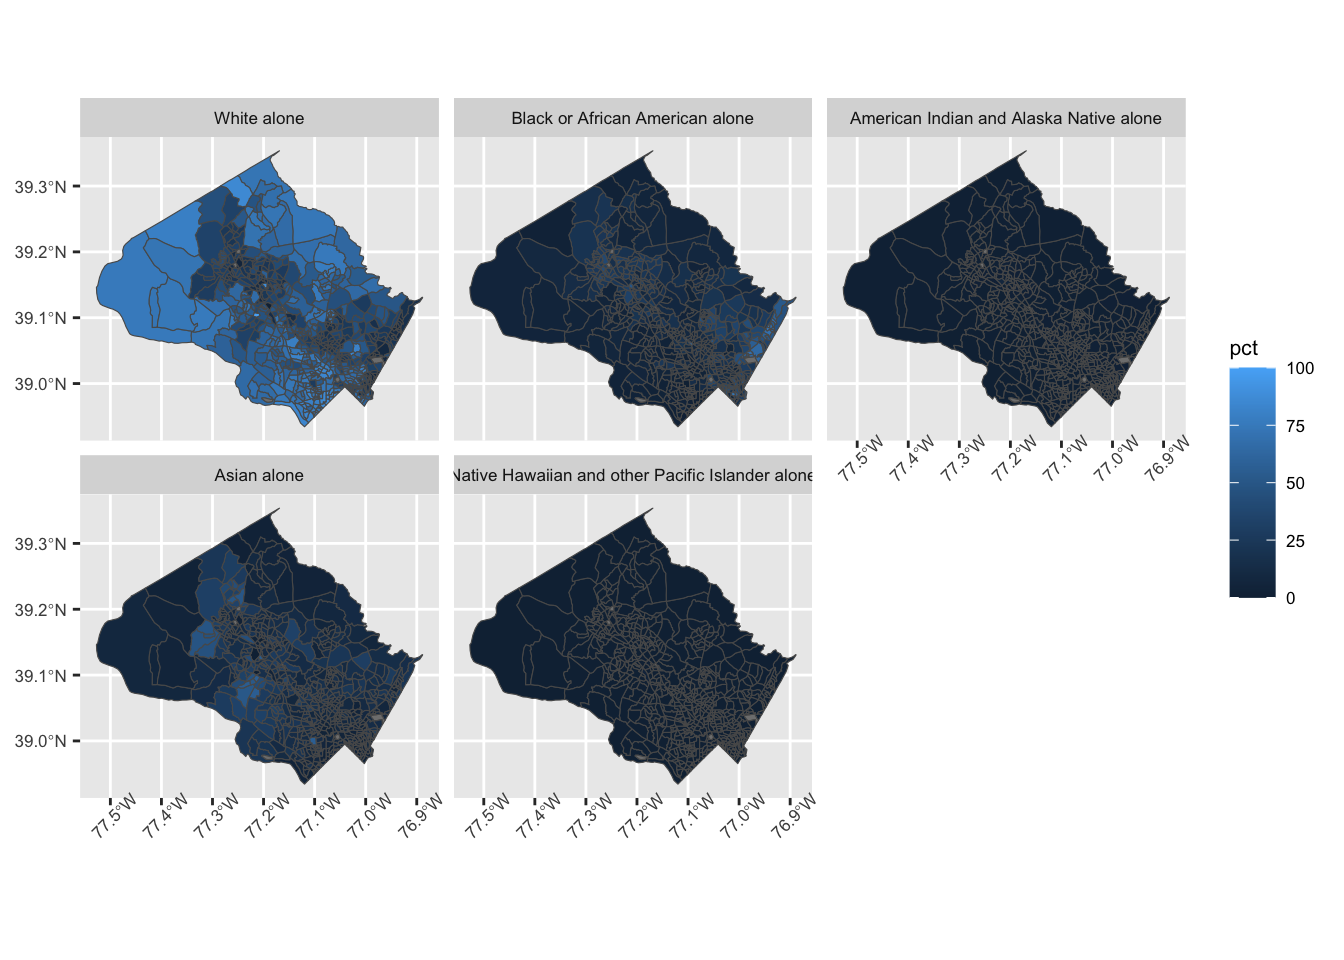
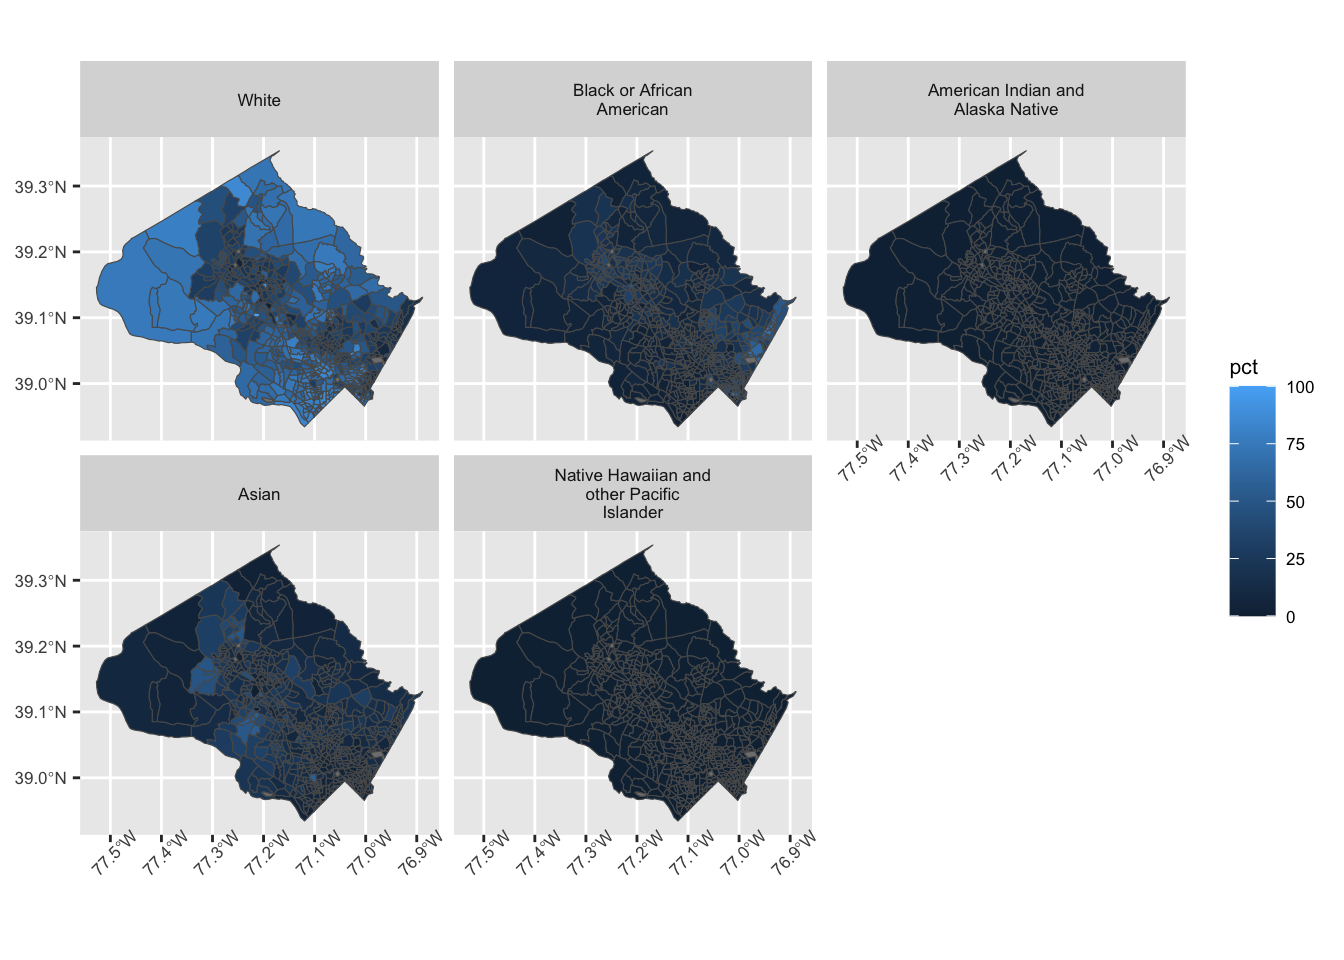
Built site for gh-pages

diff --git a/analysis.html b/analysis.html
@@ -314,19 +314,23 @@ pre > code.sourceCode > span > a:first-child::before { text-decoration: underlin
   |                                                                            
   |==========                                                            |  15%
   |                                                                            
+  |===========                                                           |  16%
+  |                                                                            
   |============                                                          |  17%
   |                                                                            
   |=============                                                         |  18%
   |                                                                            
   |=============                                                         |  19%
   |                                                                            
-  |===============                                                       |  22%
+  |==============                                                        |  20%
   |                                                                            
   |================                                                      |  23%
   |                                                                            
-  |==================                                                    |  25%
+  |=================                                                     |  24%
   |                                                                            
-  |===================                                                   |  27%
+  |==================                                                    |  26%
+  |                                                                            
+  |====================                                                  |  28%
   |                                                                            
   |=====================                                                 |  30%
   |                                                                            
@@ -334,7 +338,9 @@ pre > code.sourceCode > span > a:first-child::before { text-decoration: underlin
   |                                                                            
   |=======================                                               |  33%
   |                                                                            
-  |=========================                                             |  35%
+  |========================                                              |  34%
+  |                                                                            
+  |=========================                                             |  36%
   |                                                                            
   |==========================                                            |  38%
   |                                                                            
@@ -344,21 +350,25 @@ pre > code.sourceCode > span > a:first-child::before { text-decoration: underlin
   |                                                                            
   |=============================                                         |  42%
   |                                                                            
-  |===============================                                       |  44%
+  |==============================                                        |  43%
   |                                                                            
   |=================================                                     |  47%
   |                                                                            
   |==================================                                    |  49%
   |                                                                            
-  |====================================                                  |  51%
+  |===================================                                   |  50%
   |                                                                            
   |=====================================                                 |  52%
+  |                                                                            
+  |======================================                                |  54%
   |                                                                            
   |======================================                                |  55%
   |                                                                            
   |========================================                              |  57%
   |                                                                            
-  |=========================================                             |  59%
+  |=========================================                             |  58%
+  |                                                                            
+  |==========================================                            |  60%
   |                                                                            
   |===========================================                           |  62%
   |                                                                            
@@ -366,33 +376,41 @@ pre > code.sourceCode > span > a:first-child::before { text-decoration: underlin
   |                                                                            
   |==============================================                        |  66%
   |                                                                            
-  |================================================                      |  68%
+  |===============================================                       |  67%
+  |                                                                            
+  |=================================================                     |  70%
   |                                                                            
   |==================================================                    |  71%
   |                                                                            
-  |==================================================                    |  72%
-  |                                                                            
-  |===================================================                   |  73%
+  |====================================================                  |  74%
   |                                                                            
   |=====================================================                 |  75%
   |                                                                            
-  |======================================================                |  77%
+  |=====================================================                 |  76%
+  |                                                                            
+  |=======================================================               |  79%
   |                                                                            
   |========================================================              |  80%
   |                                                                            
-  |=========================================================             |  81%
+  |=========================================================             |  82%
   |                                                                            
   |==========================================================            |  83%
   |                                                                            
   |============================================================          |  86%
   |                                                                            
-  |=============================================================         |  88%
+  |=============================================================         |  87%
   |                                                                            
-  |===============================================================       |  90%
+  |==============================================================        |  89%
   |                                                                            
-  |=================================================================     |  92%
+  |================================================================      |  91%
+  |                                                                            
+  |=================================================================     |  93%
+  |                                                                            
+  |==================================================================    |  95%
   |                                                                            
   |====================================================================  |  97%
+  |                                                                            
+  |===================================================================== |  98%
   |                                                                            
   |======================================================================| 100%</code></pre>
 </div>
@@ -409,13 +427,13 @@ pre > code.sourceCode > span > a:first-child::before { text-decoration: underlin
 <span id="cb5-11"><a href="#cb5-11" aria-hidden="true" tabindex="-1"></a>  <span class="fu">st_as_sf</span>(<span class="at">coords =</span> <span class="fu">c</span>(<span class="st">"Longitude"</span>, <span class="st">"Latitude"</span>)) <span class="sc">%&gt;%</span>   </span>
 <span id="cb5-12"><a href="#cb5-12" aria-hidden="true" tabindex="-1"></a>  <span class="fu">st_set_crs</span>(<span class="dv">4269</span>) </span>
 <span id="cb5-13"><a href="#cb5-13" aria-hidden="true" tabindex="-1"></a></span>
-<span id="cb5-14"><a href="#cb5-14" aria-hidden="true" tabindex="-1"></a>race_list <span class="ot">&lt;-</span> <span class="fu">c</span>(<span class="st">'P1_003N'</span> <span class="ot">=</span> <span class="st">"White alone"</span>, </span>
-<span id="cb5-15"><a href="#cb5-15" aria-hidden="true" tabindex="-1"></a>               <span class="st">'P1_004N'</span> <span class="ot">=</span> <span class="st">"Black or African American alone"</span>, </span>
-<span id="cb5-16"><a href="#cb5-16" aria-hidden="true" tabindex="-1"></a>               <span class="st">'P1_005N'</span> <span class="ot">=</span> <span class="st">"American Indian and Alaska Native alone"</span>, </span>
-<span id="cb5-17"><a href="#cb5-17" aria-hidden="true" tabindex="-1"></a>               <span class="st">'P1_006N'</span> <span class="ot">=</span> <span class="st">"Asian alone"</span>, </span>
-<span id="cb5-18"><a href="#cb5-18" aria-hidden="true" tabindex="-1"></a>               <span class="st">'P1_007N'</span> <span class="ot">=</span> <span class="st">"Native Hawaiian and other Pacific Islander alone"</span>)</span>
+<span id="cb5-14"><a href="#cb5-14" aria-hidden="true" tabindex="-1"></a>race_list <span class="ot">&lt;-</span> <span class="fu">c</span>(<span class="st">'P1_003N'</span> <span class="ot">=</span> <span class="st">"White"</span>, </span>
+<span id="cb5-15"><a href="#cb5-15" aria-hidden="true" tabindex="-1"></a>               <span class="st">'P1_004N'</span> <span class="ot">=</span> <span class="st">"Black or African American"</span>, </span>
+<span id="cb5-16"><a href="#cb5-16" aria-hidden="true" tabindex="-1"></a>               <span class="st">'P1_005N'</span> <span class="ot">=</span> <span class="st">"American Indian and Alaska Native"</span>, </span>
+<span id="cb5-17"><a href="#cb5-17" aria-hidden="true" tabindex="-1"></a>               <span class="st">'P1_006N'</span> <span class="ot">=</span> <span class="st">"Asian"</span>, </span>
+<span id="cb5-18"><a href="#cb5-18" aria-hidden="true" tabindex="-1"></a>               <span class="st">'P1_007N'</span> <span class="ot">=</span> <span class="st">"Native Hawaiian and other Pacific Islander"</span>)</span>
 <span id="cb5-19"><a href="#cb5-19" aria-hidden="true" tabindex="-1"></a></span>
-<span id="cb5-20"><a href="#cb5-20" aria-hidden="true" tabindex="-1"></a><span class="fu">ggplot</span>() <span class="sc">+</span> <span class="fu">geom_sf</span>(<span class="at">data =</span> md, <span class="fu">aes</span>(<span class="at">fill =</span> pct)) <span class="sc">+</span> <span class="fu">facet_wrap</span>(<span class="sc">~</span>variable, <span class="at">labeller =</span> <span class="fu">as_labeller</span>(race_list)) <span class="sc">+</span> <span class="fu">theme</span>(<span class="at">text =</span> <span class="fu">element_text</span>(<span class="at">size =</span> <span class="dv">8</span>), <span class="at">axis.text.x =</span> <span class="fu">element_text</span>(<span class="at">angle =</span> <span class="dv">45</span>))</span></code><button title="Copy to Clipboard" class="code-copy-button"><i class="bi"></i></button></pre></div>
+<span id="cb5-20"><a href="#cb5-20" aria-hidden="true" tabindex="-1"></a><span class="fu">ggplot</span>() <span class="sc">+</span> <span class="fu">geom_sf</span>(<span class="at">data =</span> md, <span class="fu">aes</span>(<span class="at">fill =</span> pct)) <span class="sc">+</span> <span class="fu">facet_wrap</span>(<span class="sc">~</span>variable, <span class="at">labeller =</span> <span class="fu">as_labeller</span>(race_list, <span class="at">default =</span> <span class="fu">label_wrap_gen</span>(<span class="dv">20</span>))) <span class="sc">+</span> <span class="fu">theme</span>(<span class="at">text =</span> <span class="fu">element_text</span>(<span class="at">size =</span> <span class="dv">8</span>), <span class="at">axis.text.x =</span> <span class="fu">element_text</span>(<span class="at">angle =</span> <span class="dv">45</span>))</span></code><button title="Copy to Clipboard" class="code-copy-button"><i class="bi"></i></button></pre></div>
 <div class="cell-output-display">
 <p><img src="analysis_files/figure-html/unnamed-chunk-3-1.png" class="img-fluid" width="672"></p>
 </div>
